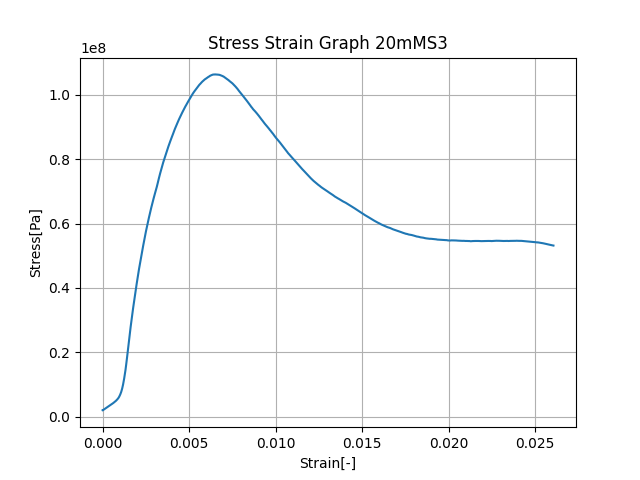
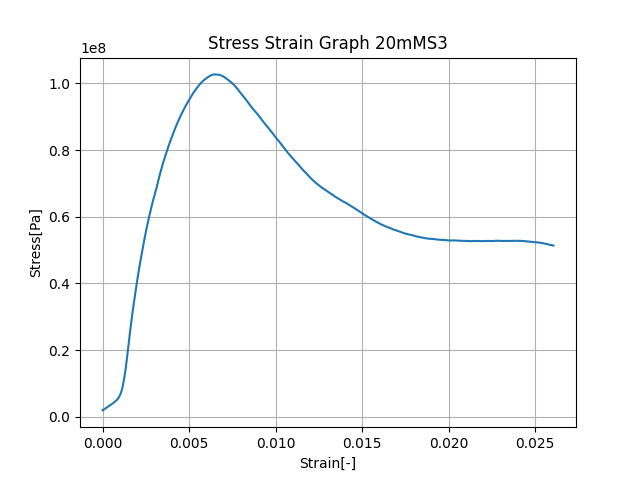
Fixed a bug

diff --git a/mainV3.py b/mainV3.py
@@ -65,18 +65,18 @@ folders = [f10, f20, f50, fTNB, fNBM]
 
 #change the thicknesses and widths once available
 thickness10 = [2.65, 2.73, 2.56, 2.71]
-thickness20 = [2.65, 2.73, 2.56, 2.71] 
-thickness50 = [2.65, 2.73, 2.56, 2.71]
-thicknessTNB = [2.65, 2.73, 2.56, 2.71]
+thickness50 = [2.78, 2.91, 2.98, 2.73] 
+thickness20 = [2.73, 2.63, 2.63, 2.72]
+thicknessTNB = [2.5, 2.49, 2.52, 2.53]
 thicknessNBM = [2.69, 2.37, 2.36, 2.34]
 widthNBM = [15, 15, 15, 15]
 width10 = [15, 15, 15, 15]
-width20 = [12, 12, 12, 12]
-width50 = [12, 12, 12, 12]
-widthTNB = [15, 15, 15, 15]
+width50 = [12.1, 12.13, 12.07, 12.11]
+width20 = [12, 12.15, 12.1, 12.07]
+widthTNB = [11.97, 11.9, 11.91, 12.07]
 
 #clear the results file
-#open('Data\MolarChange\Results.txt', 'w').close()
+open('Data\MolarChange\Results.txt', 'w').close()
 
 for i in folders:
     listofdir = listdir(i)
@@ -93,19 +93,20 @@ for i in folders:
             ncdeformation.append(cdeformation[k])
             ncforce.append(cforce[k])
             Compliance_funct = interpolate.interp1d(ncforce, ncdeformation, kind='linear', fill_value='extrapolate')
-    if i==f10:
+    checker = i[-5]
+    if checker=='1':
        thickness_lst = thickness10
        width_lst = width10
-    if i==fNBM:
+    if checker=='\\':
        thickness_lst = thicknessNBM
        width_lst = widthNBM
-    if i==f20:
+    if checker=='2':
        thickness_lst = thickness20
        width_lst = width20
-    elif i==f50:
+    elif checker=='5':
        thickness_lst=thickness50
        width_lst = width50
-    else:
+    elif checker =='i':
        thickness_lst=thicknessTNB
        width_lst = widthTNB
     for j in range(4):
@@ -113,6 +114,7 @@ for i in folders:
         deformation, force, travel, sg1, ttime = read_csv_file(file)
         t = thickness_lst[j]
         width = width_lst[j]
+        #print(file[-10:-4], width, t)
         A = (width/1000)*t/1000#m^2 
         original_l = 0.14 #m
         stress = []
@@ -128,7 +130,7 @@ for i in folders:
         #bplot_graph2(strain, stress, file)
 
         #for plotting the singular file to rule them all uncomment below
-        #one_plotter(strain, stress, file)
+        one_plotter(strain, stress, file)
         def results():
             ult_tens = calculate_ult_tens(stress)/(10**6)
             youngs = tangent_stiffness(strain, stress)
@@ -142,4 +144,4 @@ for i in folders:
             text_f.close()
         
         #before uncommenting below to see the results remeber to clear the file, uncomment line 79
-        #results()
+        results()

diff --git a/MakeGraphFromLists.py b/MakeGraphFromLists.py
@@ -54,4 +54,5 @@ def bplot_graph2(list1, list2, name):
     
     plt.savefig(name + '.png')
     plt.clf()
+    plt.cla()
 
